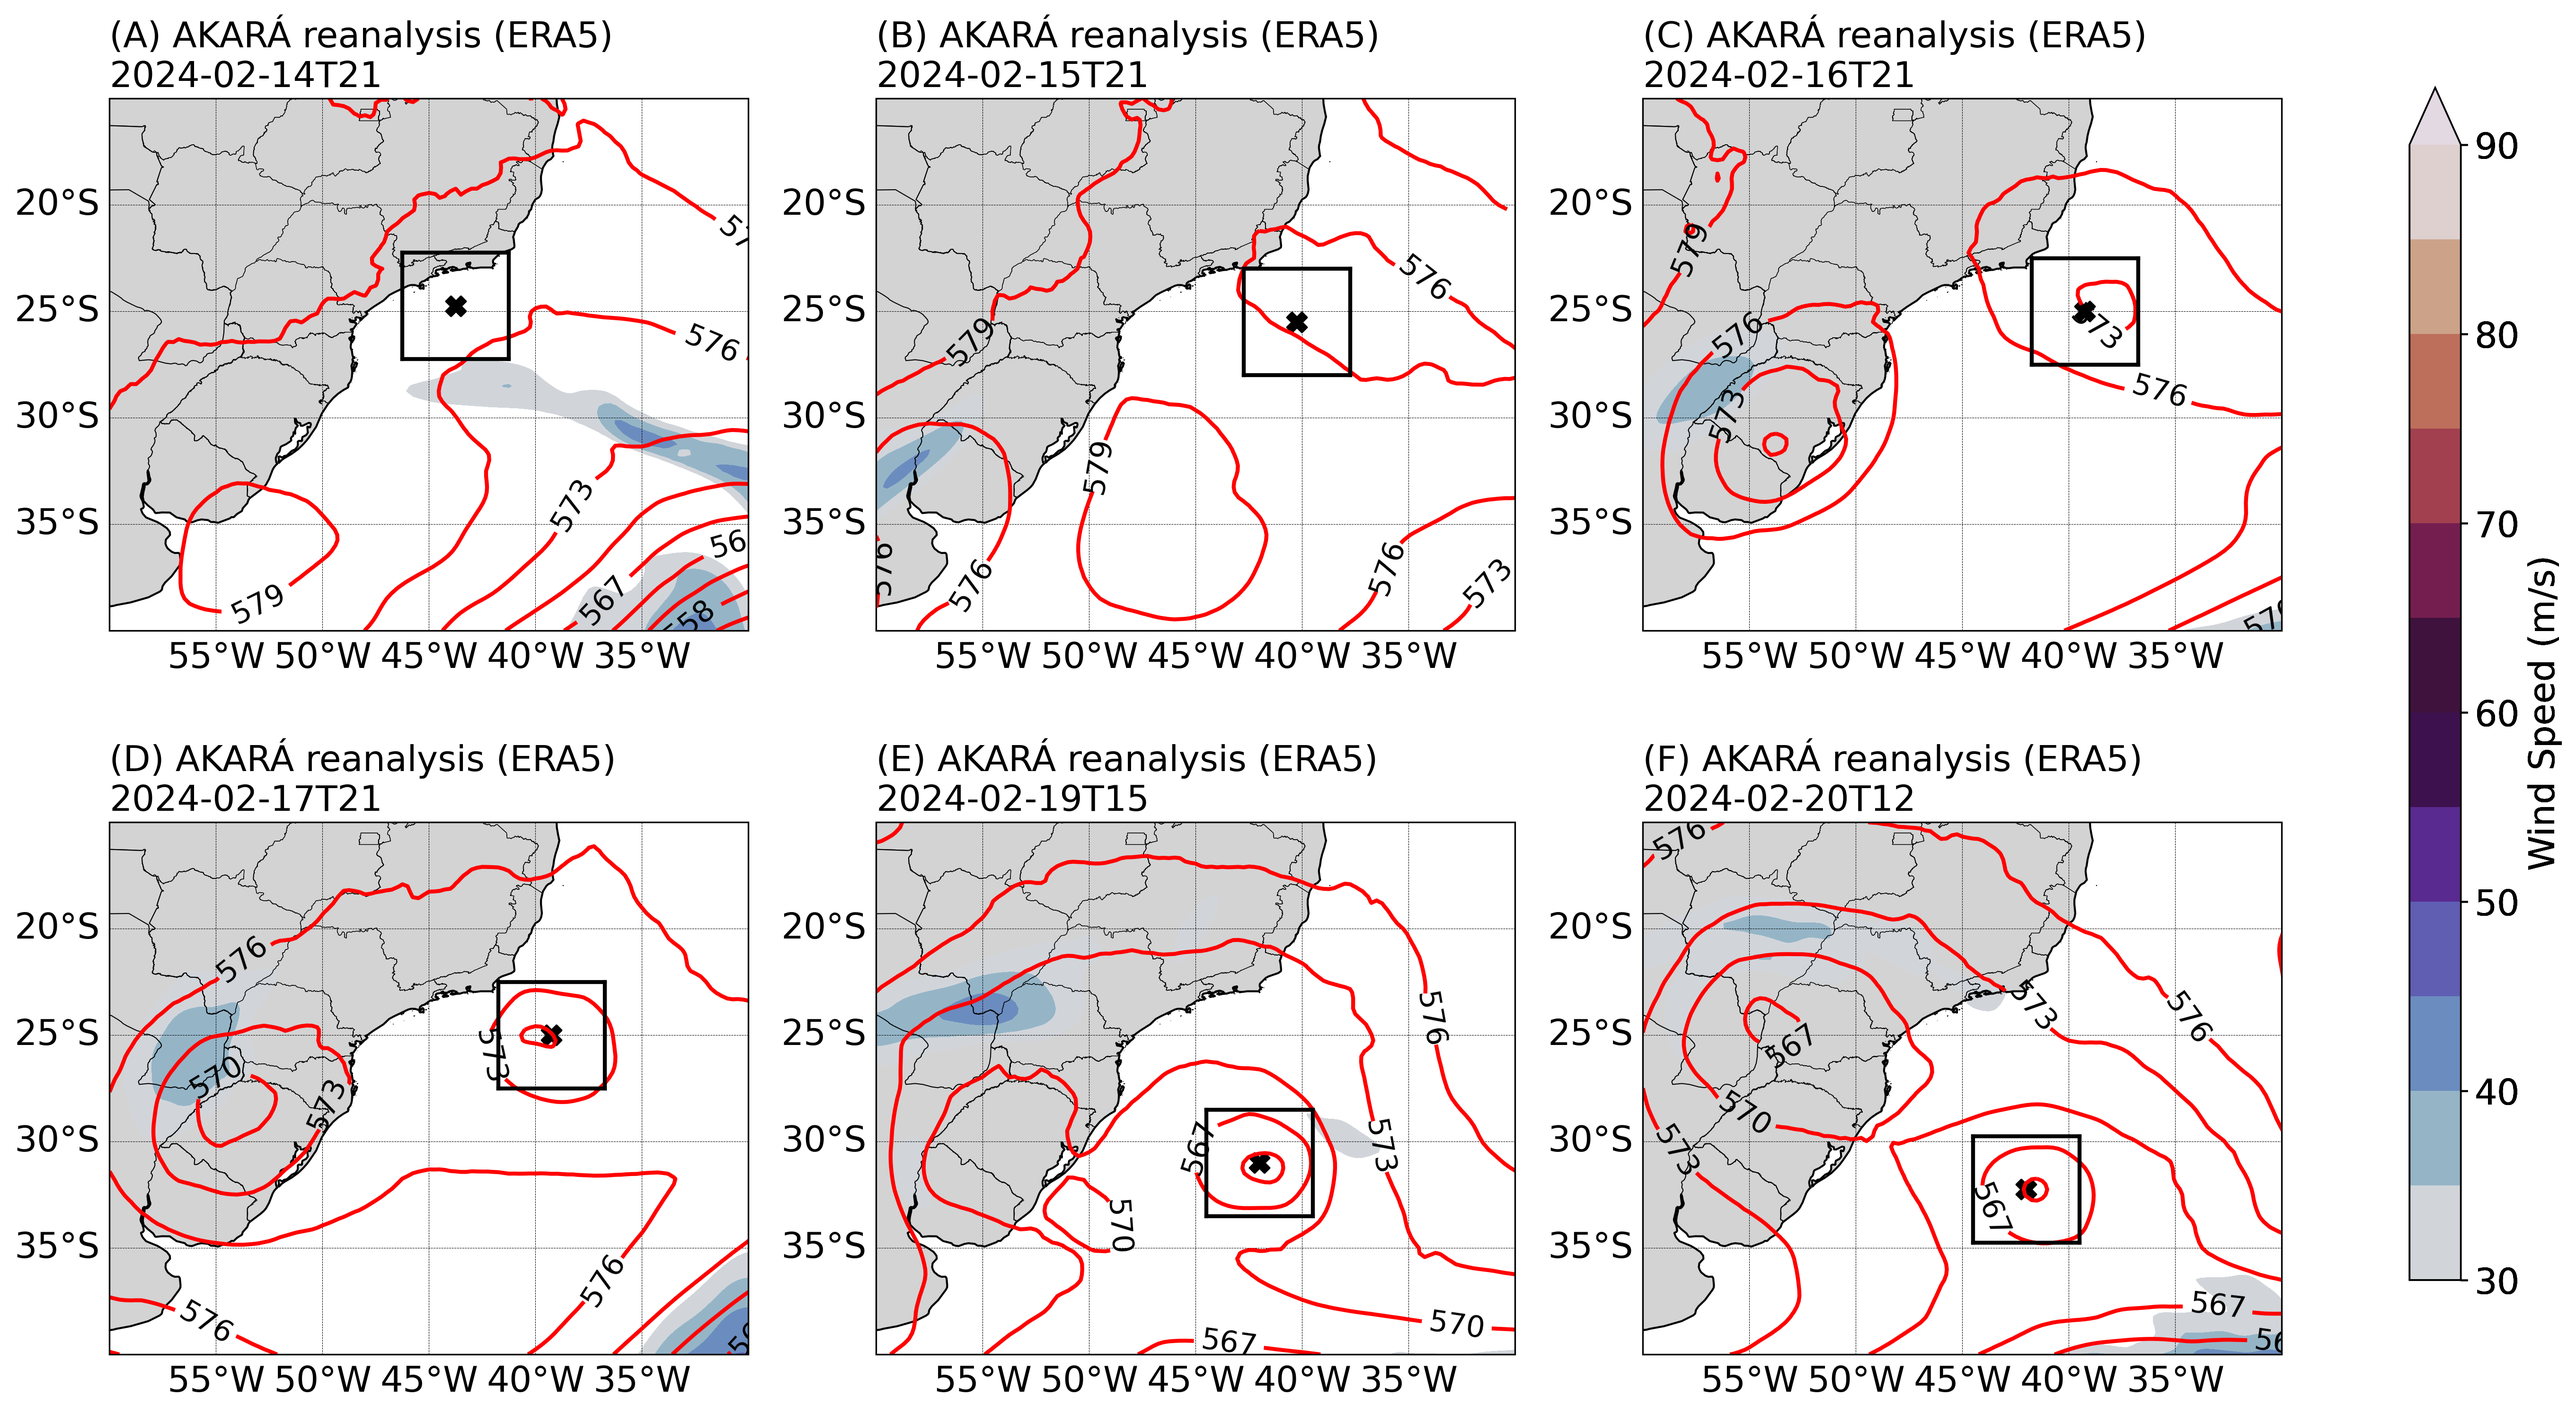
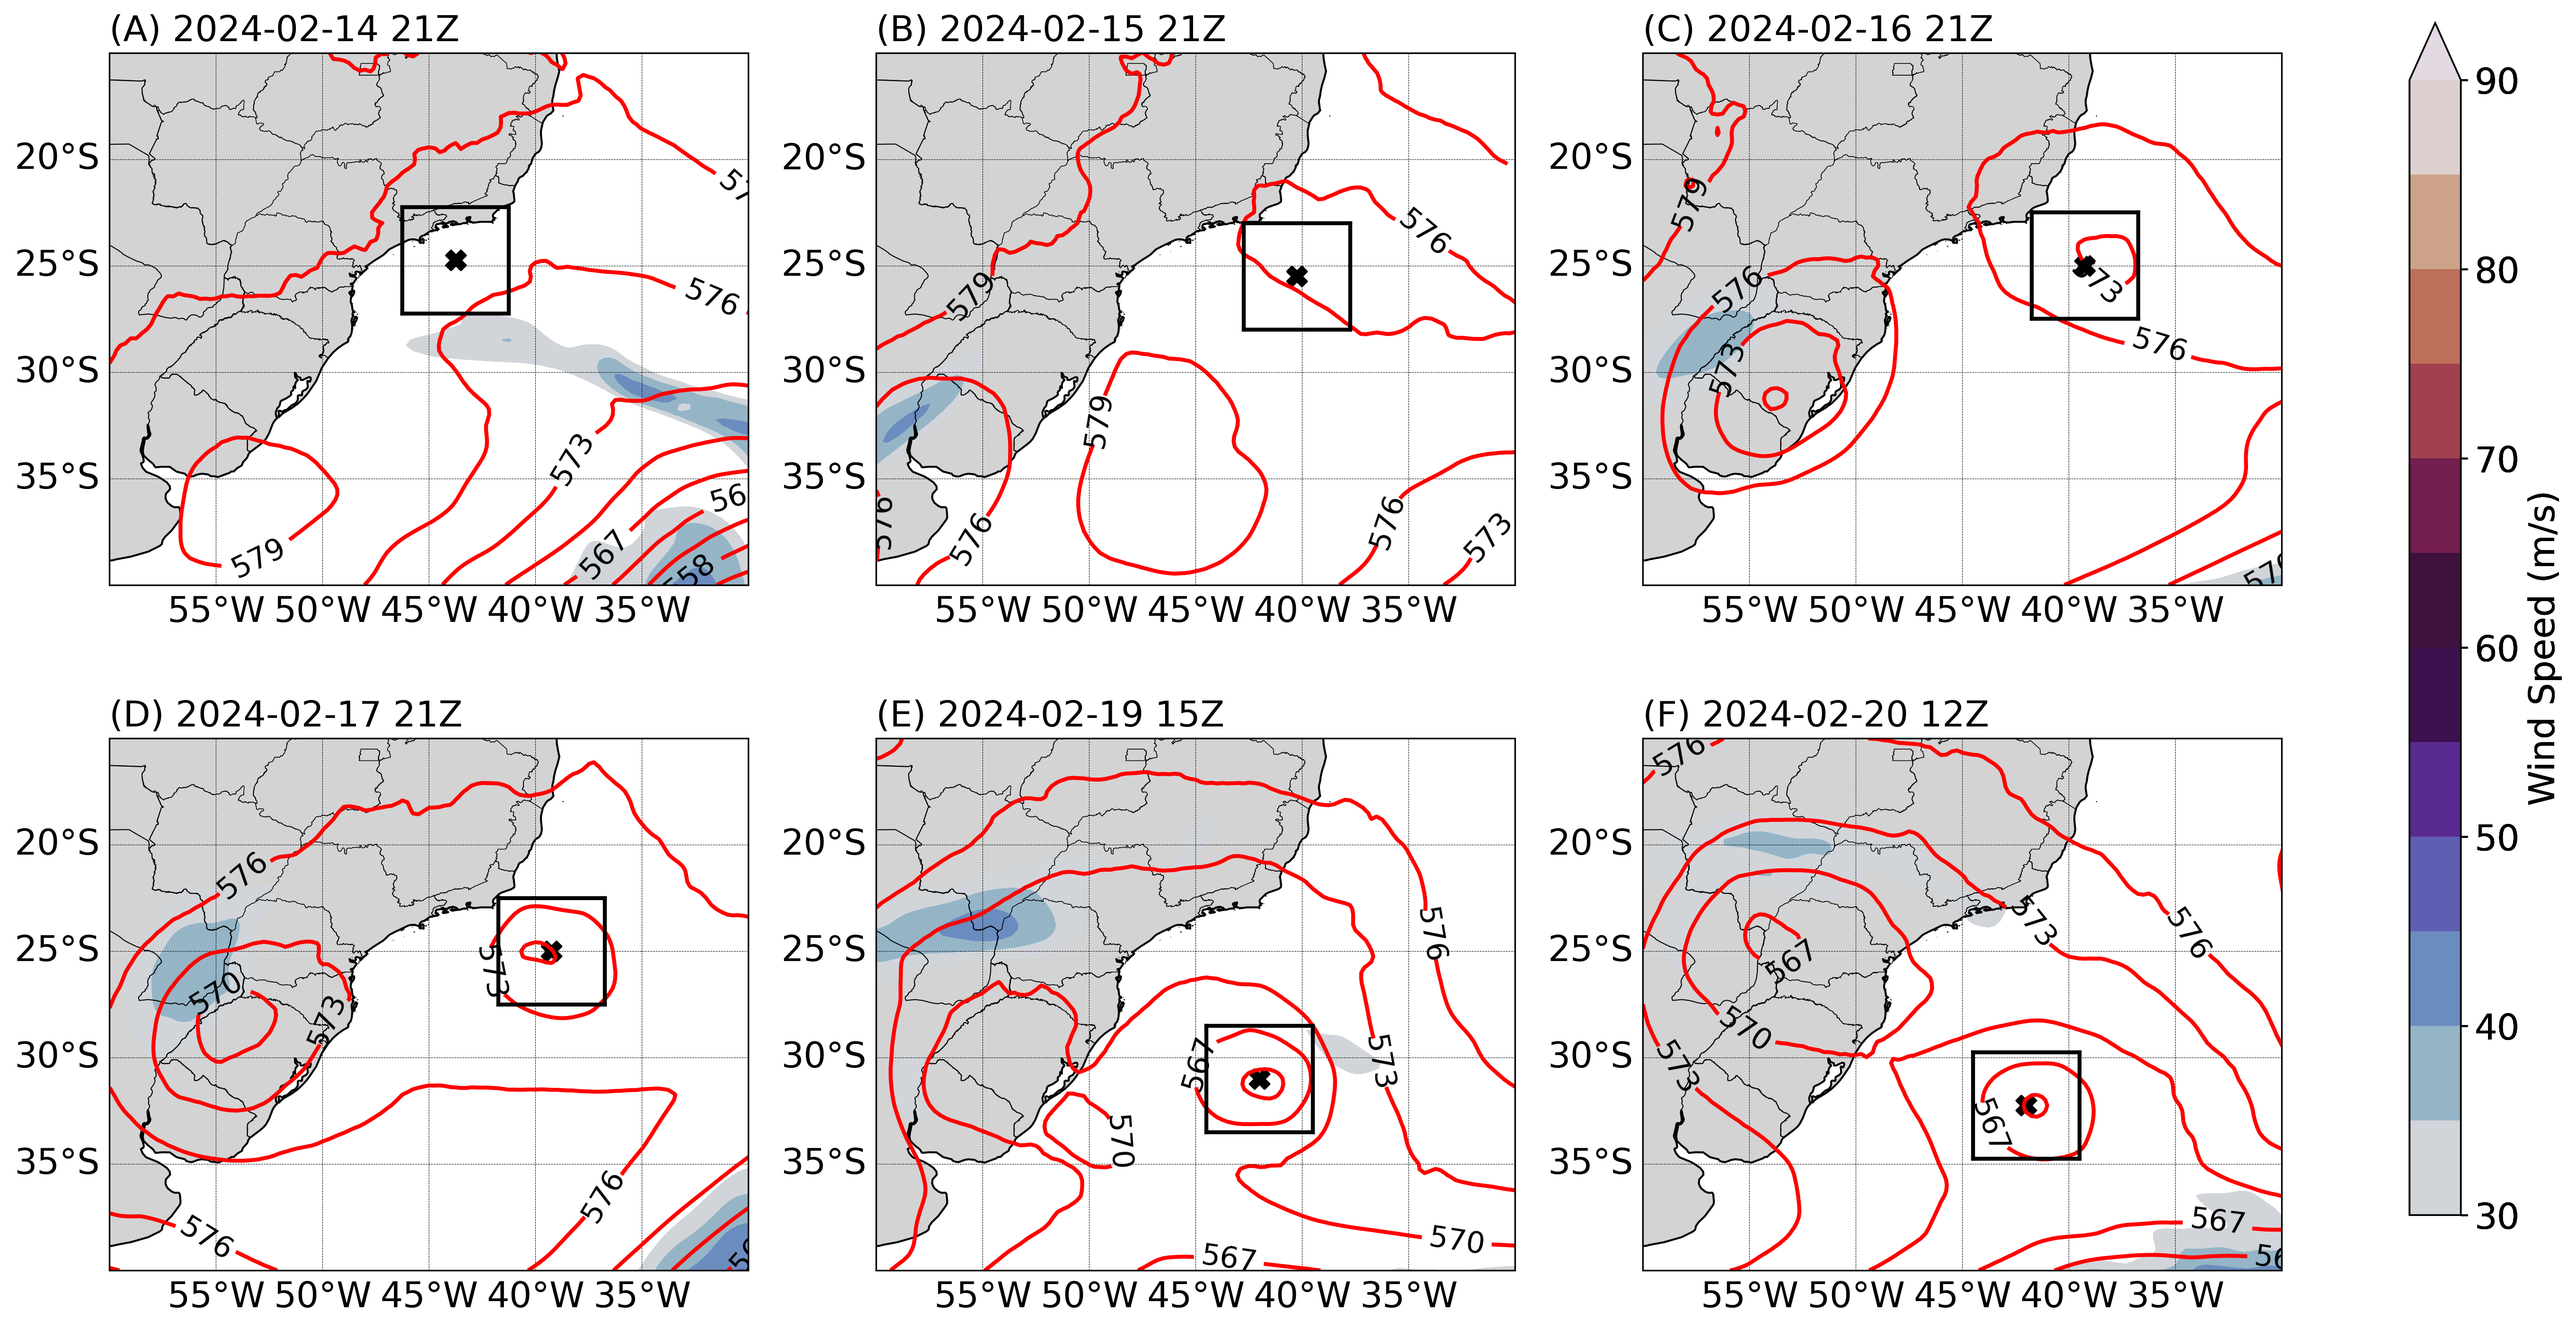
atualização

diff --git a/Akara/Charts/scripts/jatos_composition.py b/Akara/Charts/scripts/jatos_composition.py
@@ -94,12 +94,10 @@ for idx, i in enumerate(lista_indice):
     cbar = fig.colorbar(contour_wind, cax=cbar_ax, extend='both')
     cbar.set_label('Wind Speed (m/s)', fontsize=18)
     cbar.ax.tick_params(labelsize=18)
-    plt.subplots_adjust(left=0.05, right=0.9, top=0.95, bottom=0.1, wspace=0.2, hspace=0.00)
-
-  
+    plt.subplots_adjust(left=0.05, right=0.9, top=0.95, bottom=0.1, wspace=0.2, hspace=-0.1)
 
     # Adicionando o título com a data formatada
-    ax.set_title(f'{letters[idx]} AKARÁ reanalysis (ERA5)\n{time}', loc='left', fontsize=18)
+    ax.set_title(f'{letters[idx]} {time[:-3]} {time[-2:]}Z', loc='left', fontsize=18)
 
     # Adicionando as costas do mapa
     ax.coastlines()
